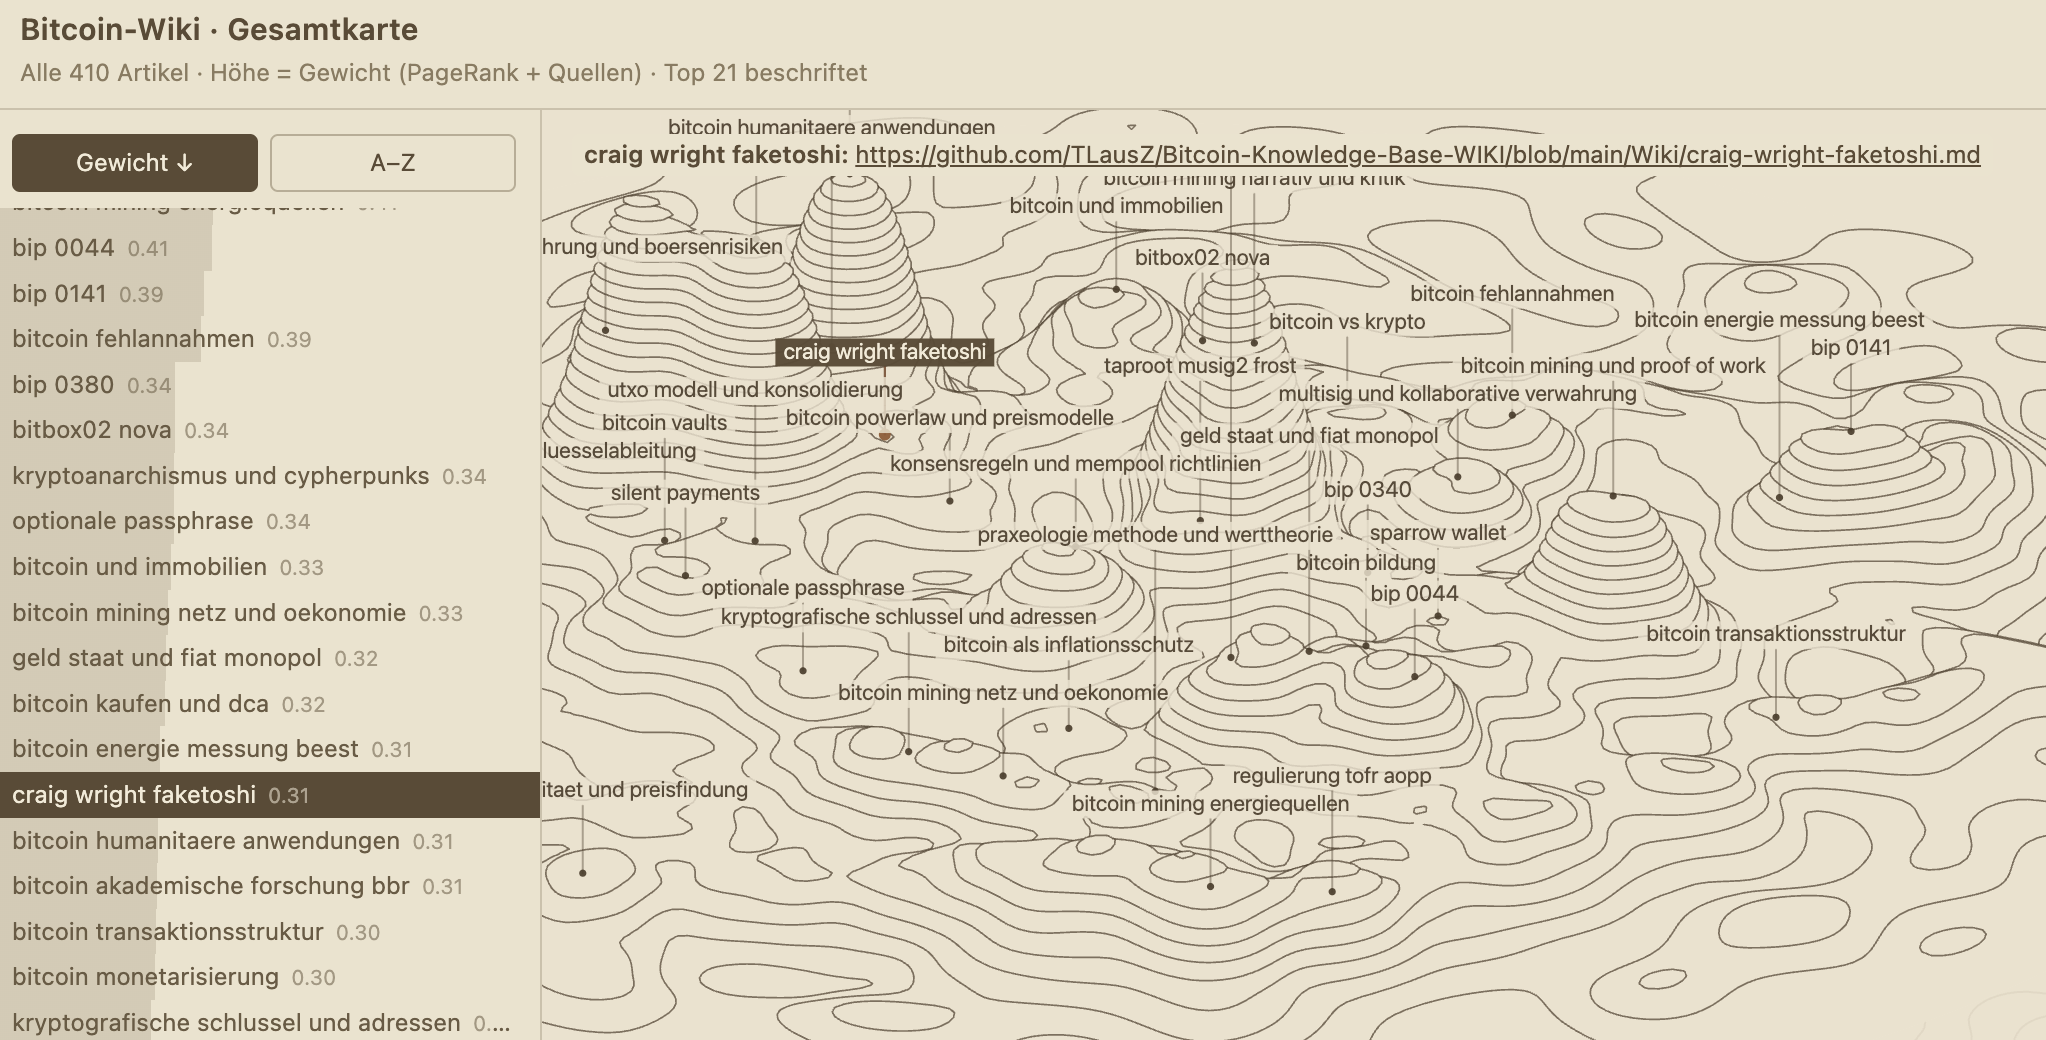
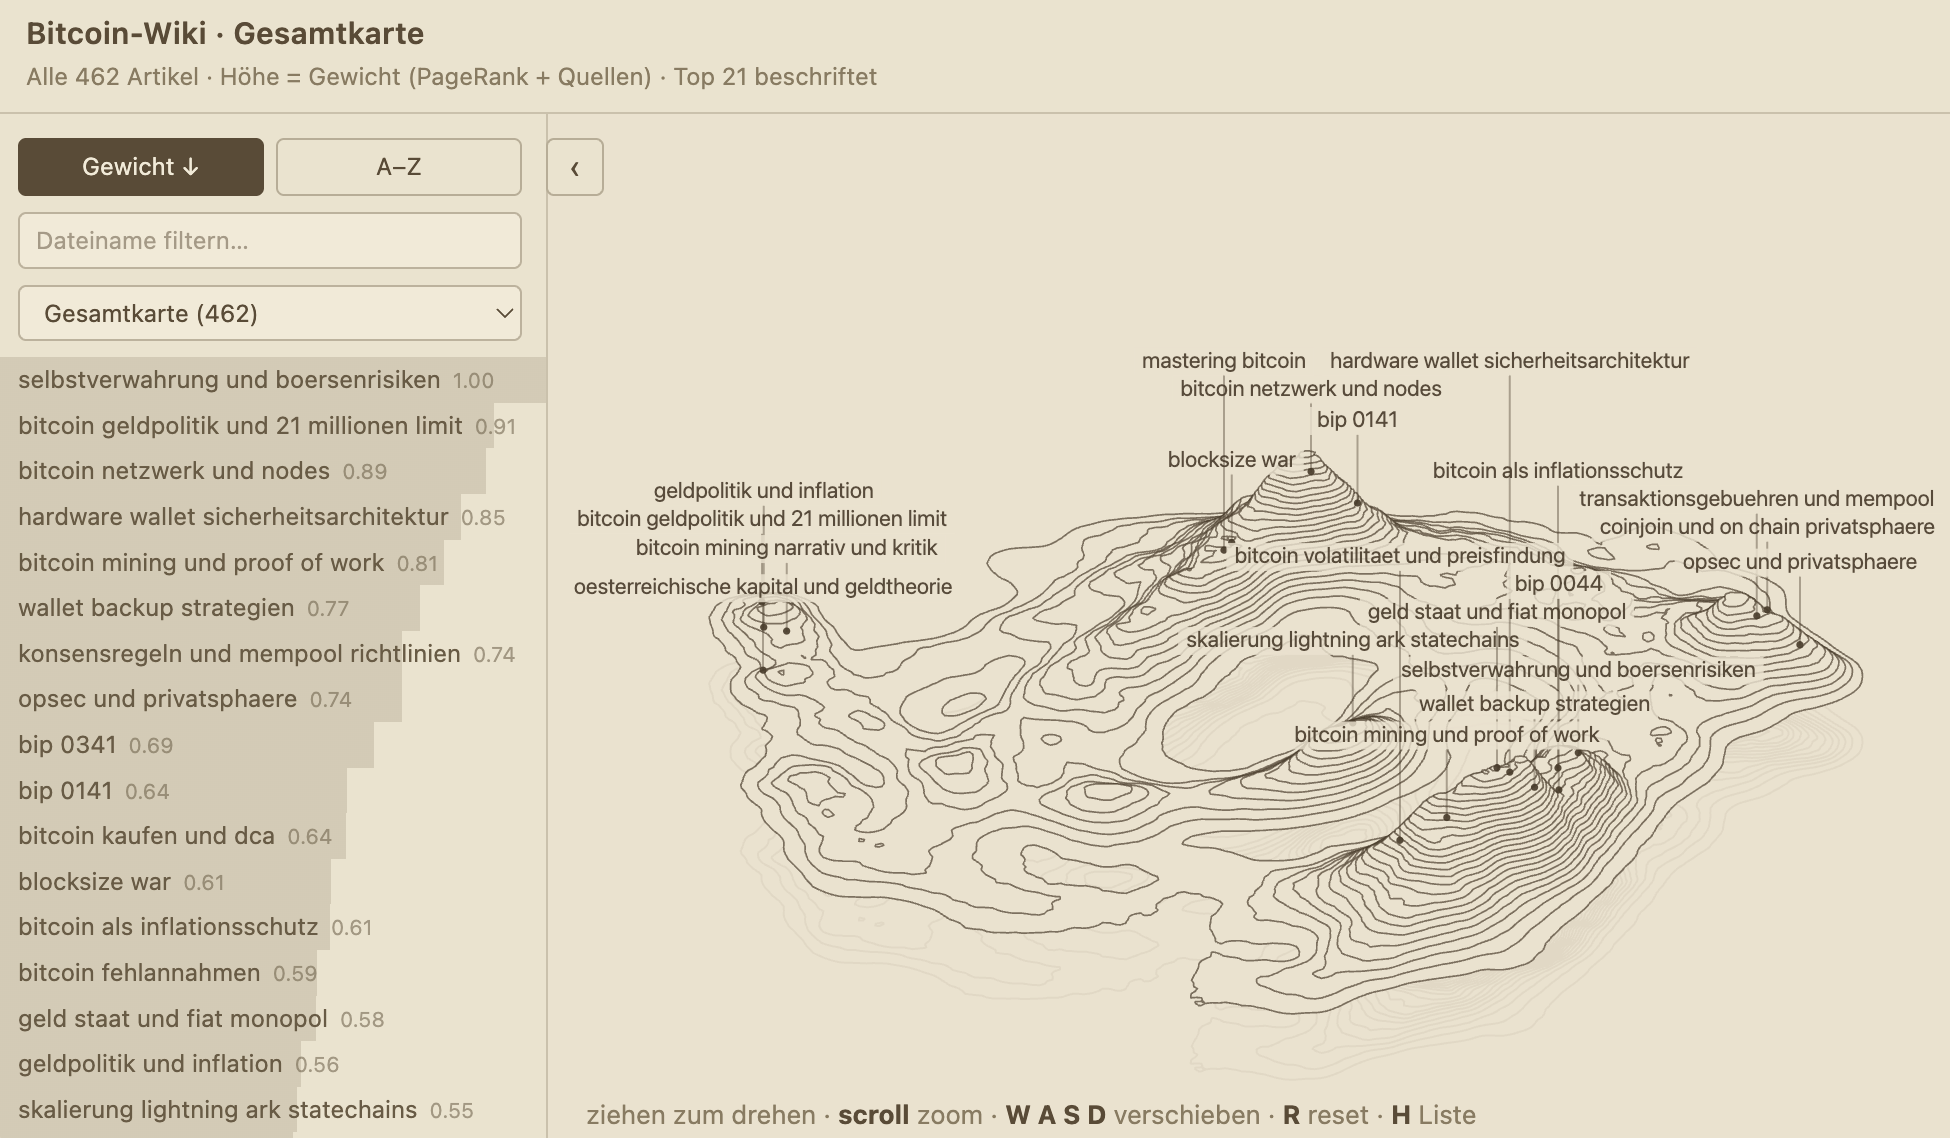
README auf Deutsch neu geschrieben, Themen-Tabelle, neue Karten- und Screensaver-Bilder

diff --git a/README.md b/README.md
@@ -16,83 +16,103 @@
 
 # Bitcoin Knowledge Base
 
-A personal second brain for Bitcoin — compiled wiki articles and BIP summaries, built on the [Karpathy LLM knowledge base pattern](https://youtu.be/ib74sLgjIBM).
+Ein persönliches Second Brain zu Bitcoin: ein Wiki aus verlinkten Artikeln und BIP-Zusammenfassungen, das mit jeder neuen Quelle wächst. Aufgebaut nach dem [LLM-Knowledge-Base-Muster von Andrej Karpathy](https://youtu.be/ib74sLgjIBM), mit Claude als Bibliothekar.
 
-## What's here
+## Die Karte
 
-**`Wiki/`** — ~380 articles. This includes ~170 topic articles (written in German) on Bitcoin fundamentals, self-custody, economics, privacy, and the ecosystem, plus ~210 BIP summaries (BIP-0001 through BIP-0451) in English, each distilled into a structured article with status, summary, and open questions. Sources span blogs, FAQs, books, papers, and historical texts — from early cypherpunk writing to recent technical deep-dives.
+Das Wiki ist als begehbare 3D-Höhenkarte veröffentlicht. Jeder Artikel ist ein Hügel, seine Höhe folgt dem Gewicht im Backlink-Graphen.
 
-Topics covered include hardware wallets, seed phrases, multisig, and backup strategies; the UTXO model, transaction fees, mempool, SegWit, and Taproot; Lightning Network, splicing, rebalancing, and privacy; CoinJoin, silent payments, address reuse, and opsec; Bitcoin monetary theory, Austrian economics, and game theory; and mining, proof-of-work, soft forks, and consensus rules.
+**https://tlausz.github.io/Bitcoin-Knowledge-Base-WIKI/**
 
-## Peer-reviewed energy & mining research
+<img src="Visualizer/wiki-map-screenshot.png" width="720" alt="3D-Höhenkarte des Wikis">
 
-The corpus includes ~17 peer-reviewed papers on Bitcoin mining's relationship to energy grids, renewables, and climate. A selection:
+Ein Klick auf einen Gipfel öffnet den Artikel im Lesefenster. Ein `#slug` in der URL springt direkt dorthin, zum Beispiel [`#bip-0110`](https://tlausz.github.io/Bitcoin-Knowledge-Base-WIKI/#bip-0110); der Slug ist der Dateiname im Wiki.
 
-| Paper | Journal | Year |
-|---|---|---|
-| Ibañez & Freier (UCL) — *Bitcoin's Carbon Footprint Revisited: PoW Mining for Renewable Energy Expansion* | [Challenges](https://doi.org/10.3390/challe14030035) | 2023 |
-| Rudd, Jones, Sechrest, Batten & Porter — *Bitcoin Mining and Methane Mitigation* | [J. Cleaner Production](https://doi.org/10.1016/j.jclepro.2024.143516) | 2024 |
-| Lal, Zhu & You (Cornell) — *From Mining to Mitigation: How Bitcoin Can Support Renewable Energy Development and Climate Action* | [ACS Sustainable Chem. Eng.](https://doi.org/10.1021/acssuschemeng.3c05445) | 2023 |
-| Lal & You (Cornell) — *Green Hydrogen and Crypto as a Dynamic Duo* | [PNAS](https://doi.org/10.1073/pnas.2313911121) | 2024 |
-| Velický — *Renewable Energy Transition Facilitated by Bitcoin* | [ACS Sustainable Chem. Eng.](https://doi.org/10.1021/acssuschemeng.3c03156) | 2023 |
-| Bruno, Weber & Yates (UNC) — *Can Bitcoin Mining Increase Renewable Electricity Capacity?* | Resource and Energy Economics | 2023 |
-| Moghimi et al. (Sharif / Aalto) — *Bitcoin Mining as a Virtual Energy Storage System in Microgrids* | [Int. J. Electrical Power & Energy Systems](https://doi.org/10.1016/j.ijepes.2024.109915) | 2024 |
-| Menati et al. (Texas A&M / ERCOT) — *High-Resolution Modeling of Crypto Mining's Impact on Power Grids* | Advances in Applied Energy (IF 13) | 2023 |
-| Bastian-Pinto et al. (PUC-Rio) — *Hedging Renewable Energy Investments with Bitcoin Mining* | [Renewable & Sustainable Energy Reviews](https://doi.org/10.1016/j.rser.2020.110520) | 2021 |
-| Sai & Vranken (Open Universiteit / Radboud) — *Promoting Rigor in Blockchain Energy Footprint Research* | [Blockchain: Research and Applications](https://doi.org/10.1016/j.bcra.2023.100169) (IF 6.9) | 2024 |
-| Rudd et al. (15 authors) — *Bitcoin and Its Energy, Environmental, and Social Impacts* | [Challenges](https://doi.org/10.3390/challe14040047) | 2023 |
-| Ehyaei et al. — *Feasibility of Bitcoin Mining with Geothermal Energy* | [Energy Science & Engineering](https://doi.org/10.1002/ese3.1648) | 2023 |
-| Dasaklis et al. — *Rethinking Bitcoin's Energy Use through Sustainable Business Models* | [Digital Business](https://doi.org/10.1016/j.digbus.2025.100114) | 2025 |
+Neben der Gesamtkarte gibt es achtzehn Themenkarten, je eine pro Themenbereich, erreichbar über das Menü der Karte oder unter `themen/<thema>.html`, etwa [Self-Custody](https://tlausz.github.io/Bitcoin-Knowledge-Base-WIKI/themen/self-custody.html) oder [Lightning](https://tlausz.github.io/Bitcoin-Knowledge-Base-WIKI/themen/lightning.html).
 
-These papers cover demand response, curtailment reduction, methane mitigation, grid stability, and the use of Bitcoin mining as a flexible load alongside wind, solar, geothermal, and biorefinery systems.
+## Was drin ist
 
-## Visualizer
+Stand: September 2026.
 
-An interactive 3D contour map of the wiki, where each article is a hill whose height reflects its weight in the backlink graph. **Live demo: https://tlausz.github.io/Bitcoin-Knowledge-Base-WIKI/** — see [`Visualizer/`](Visualizer/) for details.
+| Inhalt | Anzahl |
+|---|---|
+| Artikel gesamt | 462 |
+| davon Themenartikel | 252 |
+| darunter Buchartikel | 32 |
+| darunter Studienartikel | 13 |
+| davon BIP-Zusammenfassungen (BIP-0001 bis BIP-0459) | 210 |
+| Themenbereiche und Themenkarten | 18 |
+| Eingelesene Quellen (lokal, nicht im Repo) | rund 1'360 |
 
-The map doubles as a screensaver: a slow orbit around the island alternating with low-altitude flyovers, contour rings tinted by elevation. It starts by itself after 42 seconds of idle on the live demo, or open it directly:
+Jeder Artikel trägt ein oder mehrere von achtzehn Themen, im Schnitt zwei. Die Summen liegen deshalb über der Artikelzahl und der Gesamtgrösse des Wikis. Die Textmenge zeigt, dass die Artikelzahl allein wenig sagt: die 211 BIP-Artikel sind zusammen kleiner als die 57 Adoptions-Artikel.
 
-**https://tlausz.github.io/Bitcoin-Knowledge-Base-WIKI/screensaver.html?noexit=1**
+| Thema | Artikel | Text | Thema | Artikel | Text |
+|---|---|---|---|---|---|
+| Ökonomie | 103 | 992 KB | Lightning | 45 | 240 KB |
+| Protokoll | 103 | 761 KB | Geschichte | 23 | 237 KB |
+| Adoption | 57 | 588 KB | Grundlagen | 27 | 235 KB |
+| Philosophie | 68 | 533 KB | Bücher | 32 | 199 KB |
+| Mining | 53 | 482 KB | Studien | 13 | 179 KB |
+| Self-Custody | 92 | 459 KB | Wallets | 23 | 149 KB |
+| BIPs | 211 | 353 KB | Satoshi | 8 | 91 KB |
+| Privacy | 67 | 353 KB | Glossar | 4 | 49 KB |
+| Kritik | 23 | 265 KB | Zitate | 2 | 31 KB |
 
-<img src="Visualizer/screensaver-screenshot.jpg" width="480" alt="Screensaver: elevation-tinted contour map of the wiki">
+- **Grundlagen**: Transaktionen, Blöcke, Schlüssel und Adressen.
+- **Protokoll**: UTXO-Modell, Script, SegWit, Taproot, Mempool, Soft Forks.
+- **BIPs**: jedes Bitcoin Improvement Proposal in einem eigenen Artikel mit Status, Kernidee und offenen Fragen.
+- **Self-Custody**: Hardware-Wallets, Seed-Phrasen, Multisig, Backups und Vererbung.
+- **Wallets**: die konkrete Software zur Selbstverwahrung.
+- **Privacy**: CoinJoin, Silent Payments, Adresswiederverwendung, Chain-Analyse und Opsec.
+- **Mining**: Proof of Work, Hashrate, Mining-Ökonomie und die Energiefrage.
+- **Lightning**: von Kanälen und Routing bis zu Splicing und Privatsphäre im Netzwerk.
+- **Ökonomie**: Geldtheorie, Knappheit, Inflation, Österreichische Schule, Stablecoins und Regulierung.
+- **Philosophie**: warum Bitcoin so gebaut ist, wie es ist.
+- **Adoption**: Länder, Institutionen, ETFs und Gesetze wie der Clarity Act.
+- **Kritik**: die Gegenargumente samt Prüfung.
+- **Geschichte** und **Satoshi**: die Frühzeit von den Cypherpunks bis zum Blocksize War.
+- **Bücher**: Standardwerke von «Mastering Bitcoin» bis «Der Fiat-Standard», in eigenen Worten zusammengefasst.
+- **Studien**: akademische Arbeiten, darunter Adoptionsstudien für die Schweiz und den DACH-Raum sowie begutachtete Arbeiten zu Mining, Stromnetzen und Methan; vollständige Liste auf der [Themenkarte Studien](https://tlausz.github.io/Bitcoin-Knowledge-Base-WIKI/themen/studien.html).
+- **Glossar** und **Zitate**.
 
-## What's not here
+## Aufbau eines Artikels
 
-Raw source material (articles, PDFs, transcripts) lives locally and is excluded via `.gitignore`. Only the compiled wiki is published.
+Themenartikel sind in Schweizer Hochdeutsch geschrieben, auch wenn die Quelle englisch ist. BIP-Artikel sind englisch. Jeder Artikel folgt demselben Schema: ein Status (**established**, **emerging** oder **speculative**) sagt, wie belastbar der Inhalt ist; dann Quellen, eine Zusammenfassung in wenigen Sätzen, der Hauptteil, verwandte Artikel und offene Fragen. Jede Aussage im Wiki geht auf eine konkrete Quelldatei zurück. Was keine Quelle hat, wird als speculative markiert oder in `Wiki/QUESTIONS.md` geparkt.
 
-## How it's built
+## Wie es entsteht
 
-Claude acts as librarian: ingesting sources from `RAW/`, distilling them into linked wiki articles in `Wiki/`, and maintaining the index. Every factual claim traces back to a source file. New articles are drafted with web research — sources land in `RAW/` first, then the wiki gets updated. A monthly health check audits the corpus for drift, broken links, and promotion candidates.
+Quellen wie Artikel, Podcast-Transkripte, Papers und Bücher landen unverändert in einem lokalen `RAW/`-Ordner. Claude liest sie, destilliert sie in neue oder bestehende Wiki-Artikel, setzt die Backlinks, aktualisiert den Index und ordnet die Themen zu; danach werden Karte und Themenkarten neu gebaut. Ein monatlicher Health Check prüft das Wiki auf Schreibregeln, tote Links und Artikel, die von emerging auf established gehoben werden können.
 
-## Using this wiki in Obsidian
+Der `RAW/`-Ordner ist nicht Teil dieses Repos. Er enthält urheberrechtlich geschütztes Material und bleibt lokal; veröffentlicht wird nur das kompilierte Wiki.
 
-Clone or download the repo, then open the `bitcoin_kb` folder as an Obsidian vault.
+## Screensaver
 
-**Graph View** (`Ctrl/Cmd + G`) renders the backlink network across all wiki articles. Dense clusters show where concepts overlap — useful for spotting gaps or finding related reading.
+Die Karte ist zugleich ein Bildschirmschoner: eine langsame Umrundung der Insel im Wechsel mit Tiefflügen, die Höhenlinien nach Höhe eingefärbt. Er startet auf der Live-Karte nach 42 Sekunden ohne Eingabe oder direkt unter [screensaver.html?noexit=1](https://tlausz.github.io/Bitcoin-Knowledge-Base-WIKI/screensaver.html?noexit=1).
 
-**Recommended plugins:**
-- **Dataview** — query articles by status (`established`, `emerging`, `speculative`) or filter by tag. Example query to list all speculative articles:
-  ````
-  ```dataview
-  LIST FROM "Wiki" WHERE contains(status, "speculative")
-  ```
-  ````
-- **Obsidian Canvas** — drag articles onto a canvas to build visual mind maps around a topic (e.g. all Lightning-related nodes).
-- **Backlinks pane** — open any article and check the backlinks panel to see which other articles reference it.
+<img src="Visualizer/screensaver-screenshot.jpg" width="720" alt="Bildschirmschoner: Höhenkarte mit eingefärbten Höhenlinien und Gipfel-Beschriftung">
 
-**Tips:**
-- Start at `Wiki/INDEX.md` for the full article list.
-- `Wiki/QUESTIONS.md` tracks open threads and unresolved tensions across the corpus.
-- `CHANGELOG.md` at the root records what changed in each health check pass.
+Details zu Aufbau und Bedienung in [`Visualizer/`](Visualizer/).
 
-## Other tools
+## Nutzung in Obsidian
 
-The wiki is plain markdown, so it works equally well in VS Code, iA Writer, Typora, or any other markdown editor. The `[[backlink]]` syntax is Obsidian-native but readable anywhere — just treat them as article references.
+Repo klonen oder herunterladen und den Ordner `bitcoin_kb` als Vault öffnen. Die Graph-Ansicht (`Cmd/Ctrl + G`) zeigt das Backlink-Netz aller Artikel; dichte Cluster markieren, wo sich Konzepte überschneiden. Einstieg über `Wiki/INDEX.md` mit der vollständigen Artikelliste, offene Fäden in `Wiki/QUESTIONS.md`.
+
+Mit dem Plugin Dataview lassen sich Artikel nach Status abfragen, etwa alle spekulativen:
+
+````
+```dataview
+LIST FROM "Wiki" WHERE contains(status, "speculative")
+```
+````
+
+Das Wiki ist reines Markdown. Es lässt sich in jedem Editor lesen; die `[[Backlinks]]` sind Obsidian-Syntax, funktionieren anderswo aber als gewöhnliche Artikelverweise.
 
 ---
 
-*Work in progress. Articles are added as new sources are ingested.*
+*Work in progress. Artikel kommen dazu, sobald neue Quellen eingelesen sind.*
 
----
+Die Quellen sind von Hand ausgewählt, die Artikel hat eine AI geschrieben. AI macht Fehler: Zahlen, Daten und Zuschreibungen können falsch sein, Zusammenhänge verkürzt, einzelne Aussagen erfunden. Kein Anspruch auf Vollständigkeit. Vor jeder Entscheidung, die auf einem Artikel beruht, die angegebene Quelle prüfen. Don't trust, verify.
 
-Built with [Claude](https://claude.ai) · Pattern by [Andrej Karpathy](https://youtu.be/ib74sLgjIBM)
+Das Wiki steht unter der Lizenz [CC BY 4.0](https://creativecommons.org/licenses/by/4.0/).
+
+Gebaut mit [Claude](https://claude.ai) · Muster von [Andrej Karpathy](https://youtu.be/ib74sLgjIBM)
